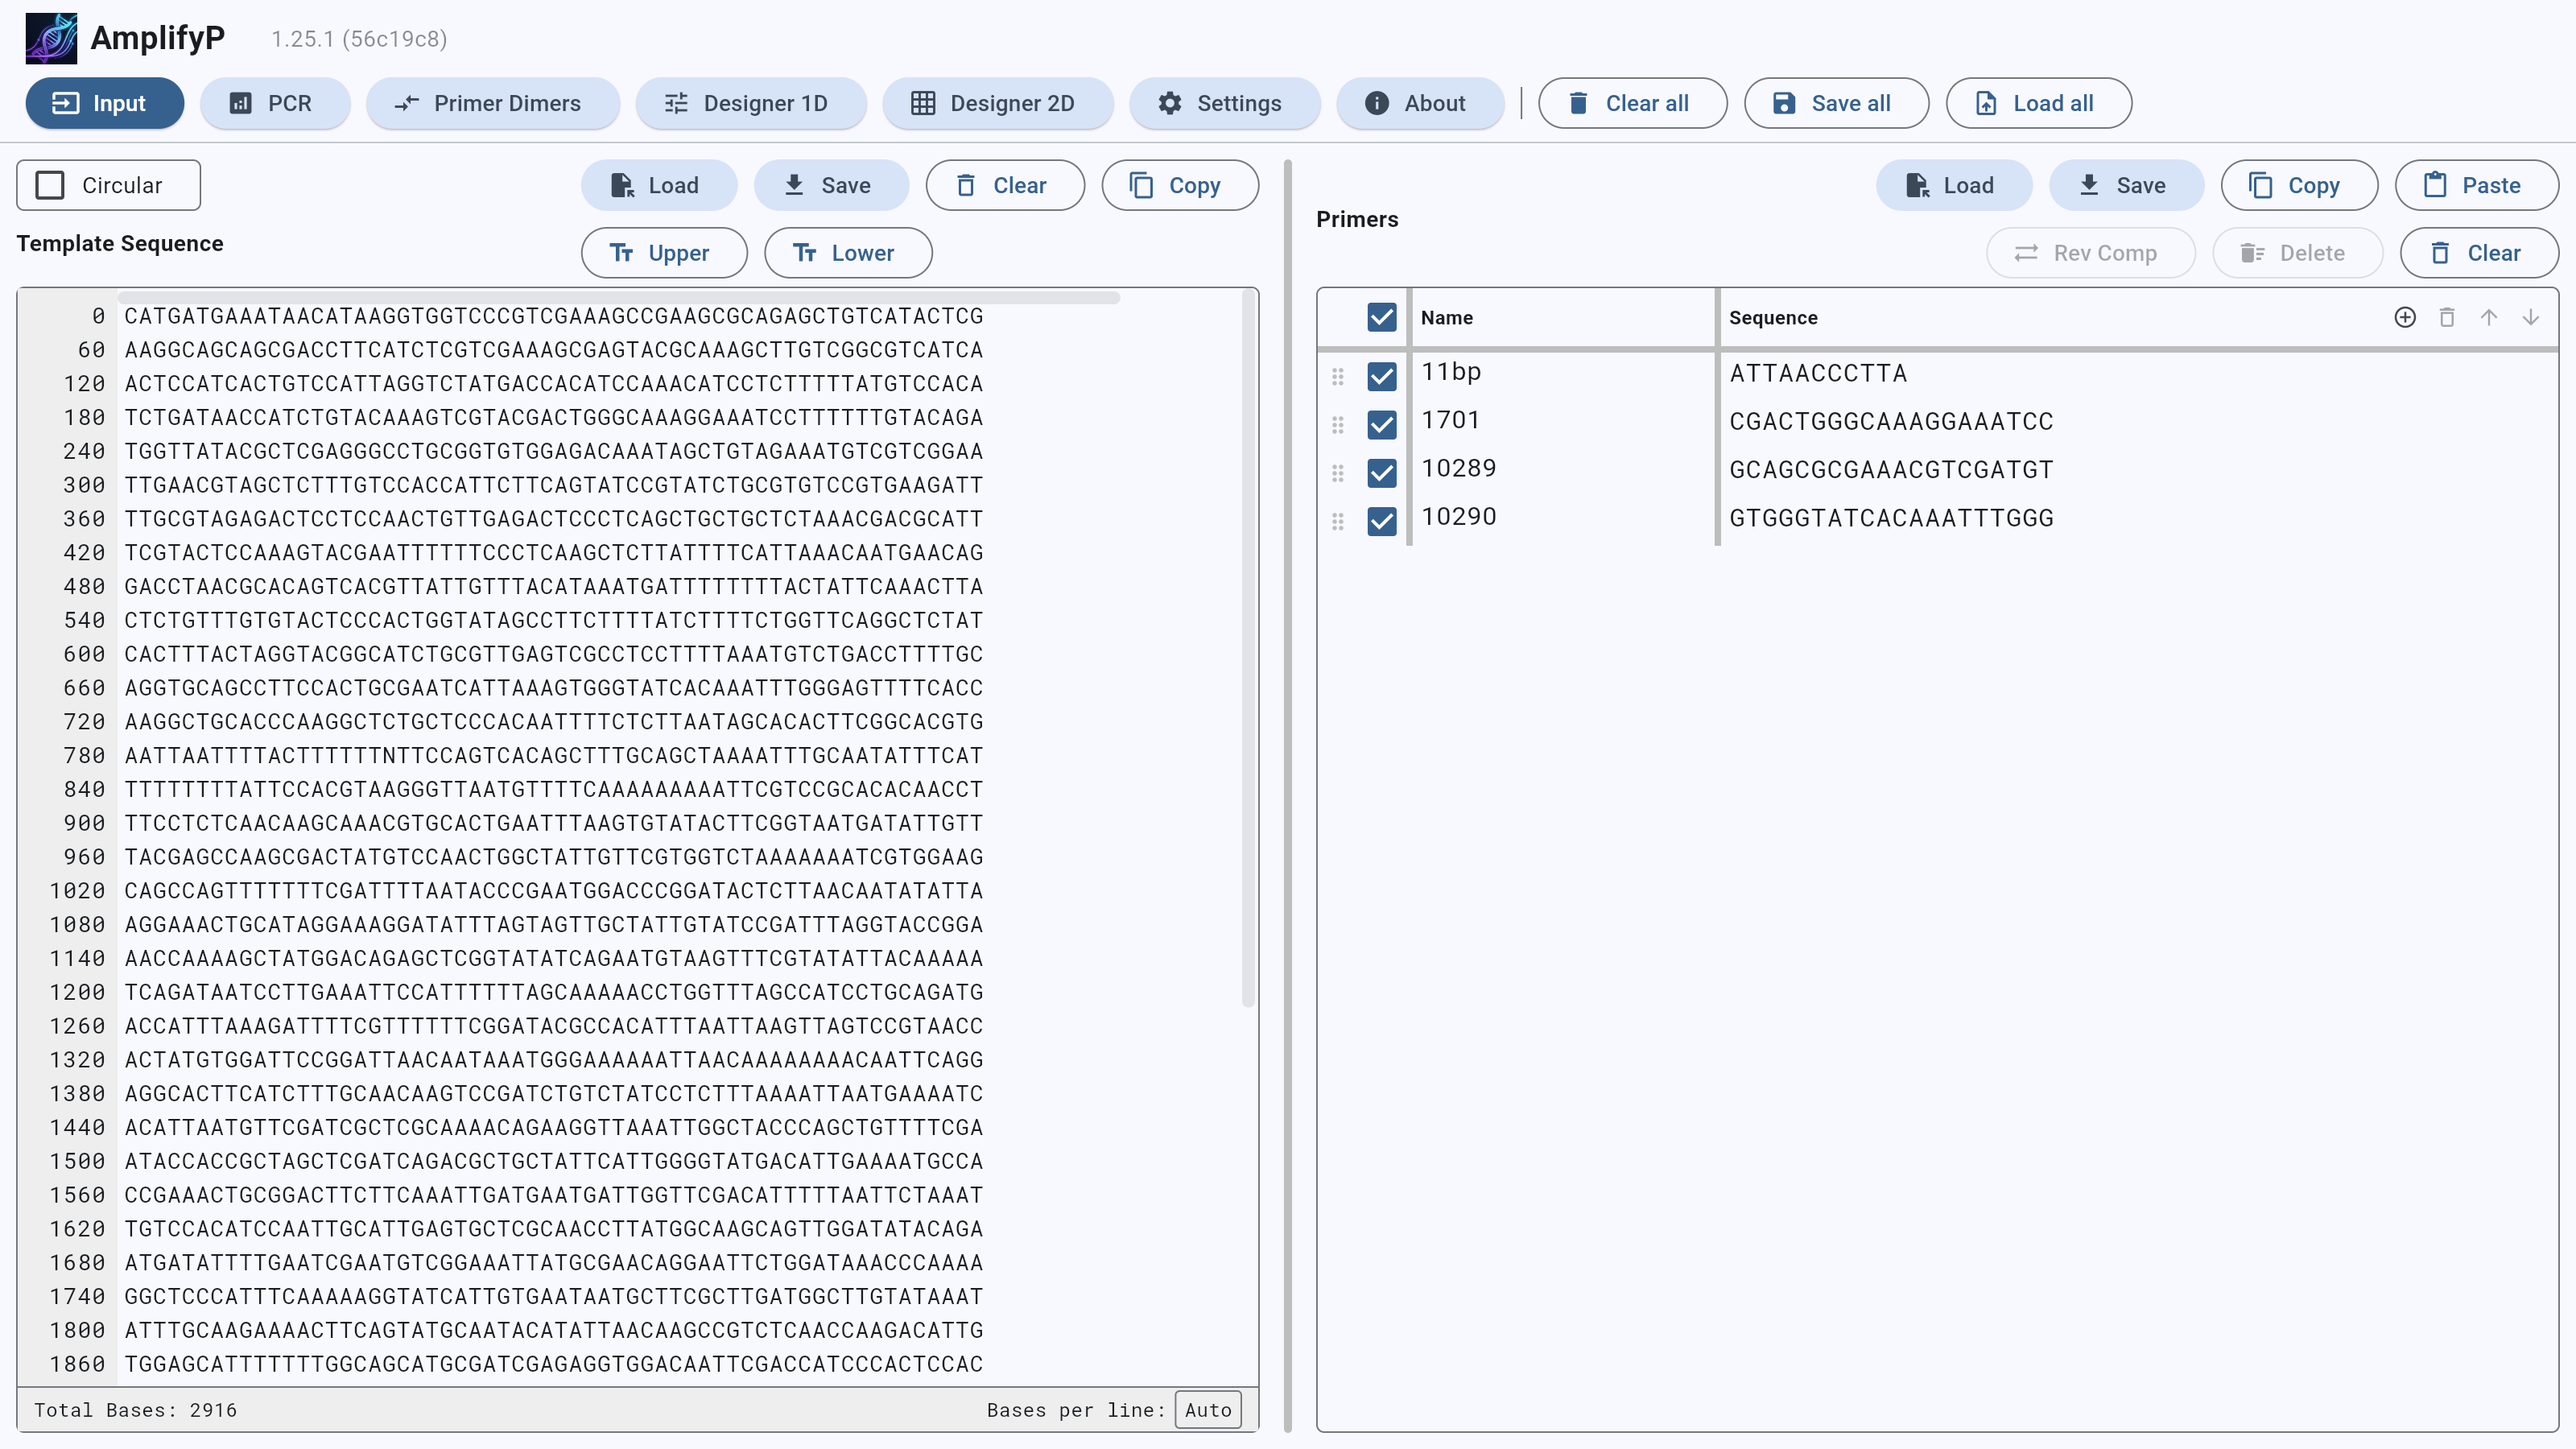
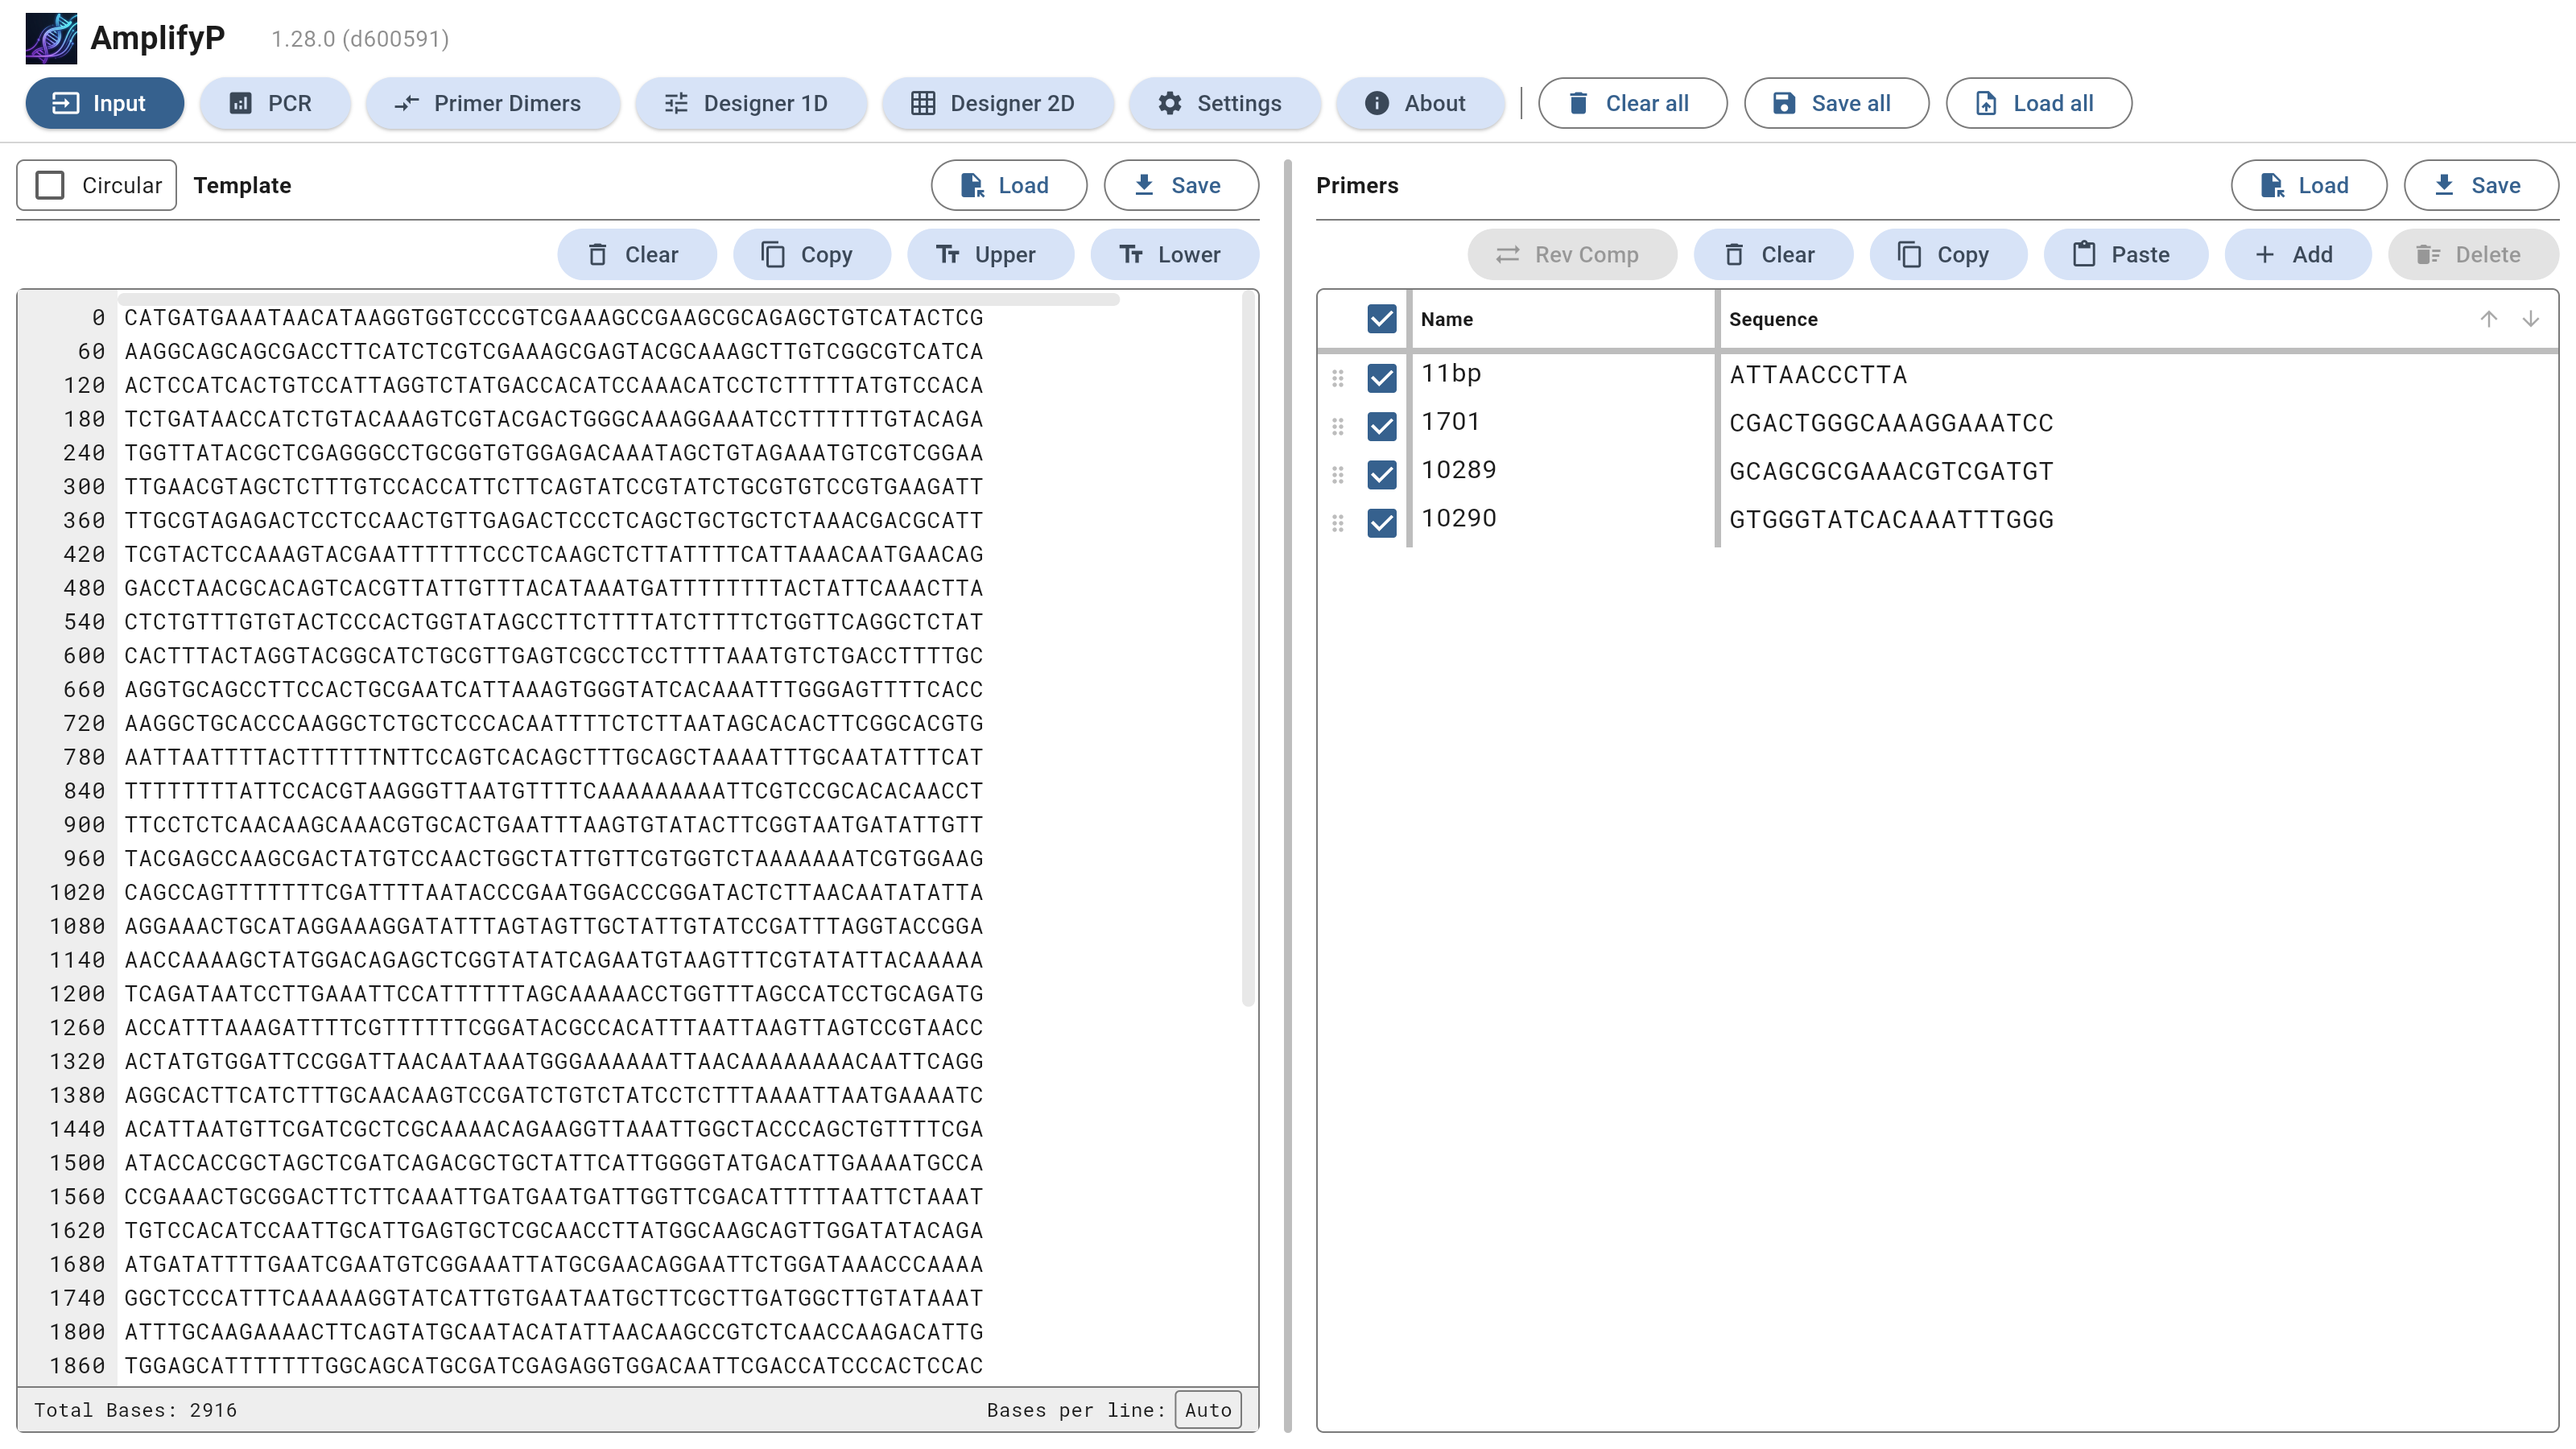
docs: sync GUI manual, screenshots, and README
Document Relative Q tier scaling in the PCR manual, update primer dimer
alignment examples to the dash separator default, fix example filenames
in the save-states README, and regenerate GUI screenshots.

diff --git a/docs/gui/primer_dimer_view.md b/docs/gui/primer_dimer_view.md
@@ -74,7 +74,7 @@ summary header and an antiparallel sequence alignment diagram:
   - Displays a 5-line visually aligned stack:
     1. **Top Primer Name**: Name of the longer primer rendered in bold purple.
     2. **Top Sequence ($5' \\to 3'$)**: Sequence of the longer primer displayed
-       in standard $5' \\to 3'$ direction (`5' ... 3'`).
+       in standard $5' \\to 3'$ direction (`5'-...-3'`).
     3. **Binding Interface Line**: Visual bond symbols indicating interaction
        strength at each overlapping base position:
        - `|` (Vertical bar): Strong base pair match (pairwise score $\\ge
@@ -83,7 +83,7 @@ summary header and an antiparallel sequence alignment diagram:
          < 10.0$).
        - ` ` (Space): Mismatch or repulsive interaction ($\\text{score} < 0.0$).
     4. **Bottom Sequence ($3' \\to 5'$)**: Sequence of the shorter primer
-       displayed in antiparallel $3' \\to 5'$ orientation (`3' ... 5'`),
+       displayed in antiparallel $3' \\to 5'$ orientation (`3'-...-5'`),
        horizontally indented to match its alignment position.
     5. **Bottom Primer Name**: Name of the shorter primer rendered in bold
        purple, right-padded under its 5' end.

diff --git a/tests/examples/save_states/README.md b/tests/examples/save_states/README.md
@@ -1,11 +1,12 @@
 The original of the files in this folder:
 
-- `amplify_4_all_primers.tsv` is from
+- `amplify_4_all_example_primers.tsv` is from
   `Amplify4/Amplify4.app/Contents/Resources/Amplify Sample Primers.primers`
-- `amplify_4_template.txt` is from
+- `amplify_4_example_template.txt` is from
   `Amplify4/Amplify4.app/Contents/Resources/Amplify Sample Target.rtf`
 - `amplify_4_full_example.yaml` was created by loading in
-  `amplify_4_all_primers.tsv` and `amplify_4_template.txt` and saving the state.
+  `amplify_4_all_example_primers.tsv` and `amplify_4_example_template.txt` and
+  saving the state.
 - `simple.yaml` was created from Amplify 4's samples.
 - `overlapping_primers.yaml` contains primers which are overlapping.
 - `long_amplicons.yaml` contains a template and primer set that produce long

diff --git a/docs/gui/pcr_view.md b/docs/gui/pcr_view.md
@@ -38,7 +38,8 @@ PCR amplicons on an interactive canvas.
     predicted PCR products.
   - **Bar Thickness**: Scaled dynamically according to quality score $Q$: 8.0 px
     for $Q < 300$, 5.5 px for $Q < 700$, 3.5 px for $Q < 1500$, 2.0 px for $Q \<
-    4000$, and 1.0 px for $Q \\ge 4000$.
+    4000$, and 1.0 px for $Q \\ge 4000$. When **Relative Q score** is enabled,
+    the thresholds are divided by `300` (with inclusive $\\le$ upper bounds).
   - **Length Label**: Displays amplicon fragment length in base pairs (including
     primers) centred under each bar.
   - **Circular Template Support**: Wraparound amplicons crossing origin
